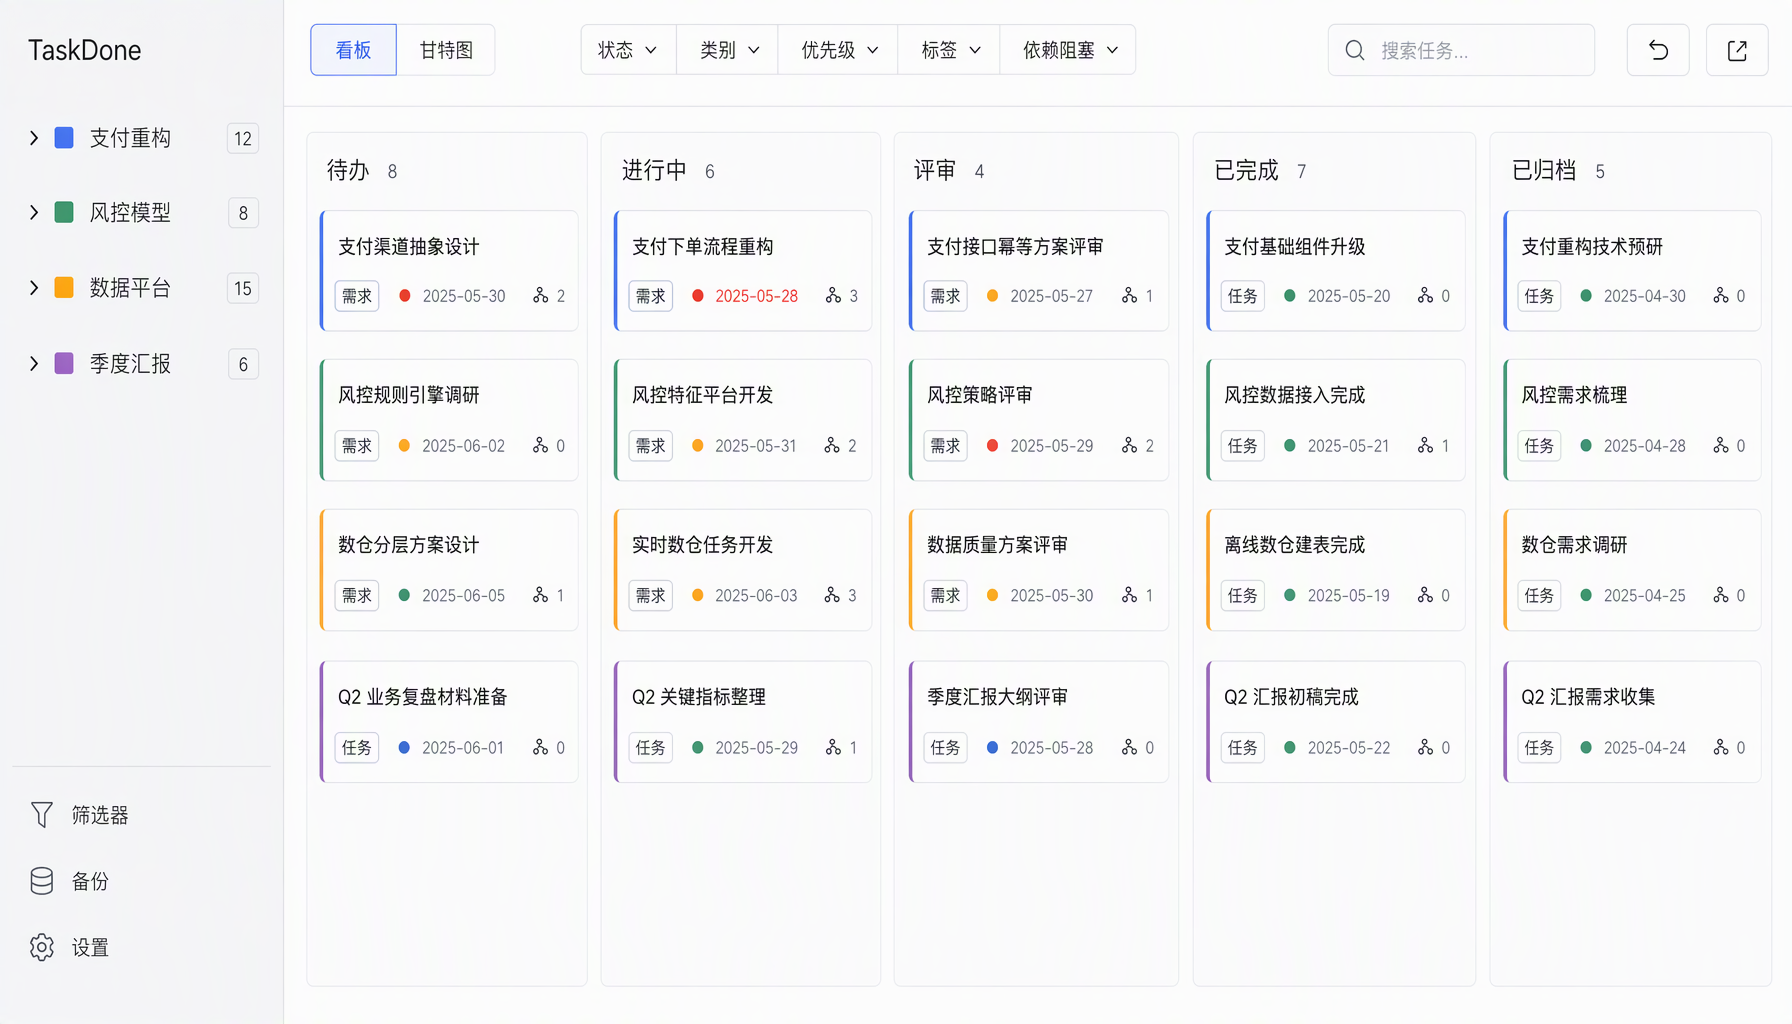
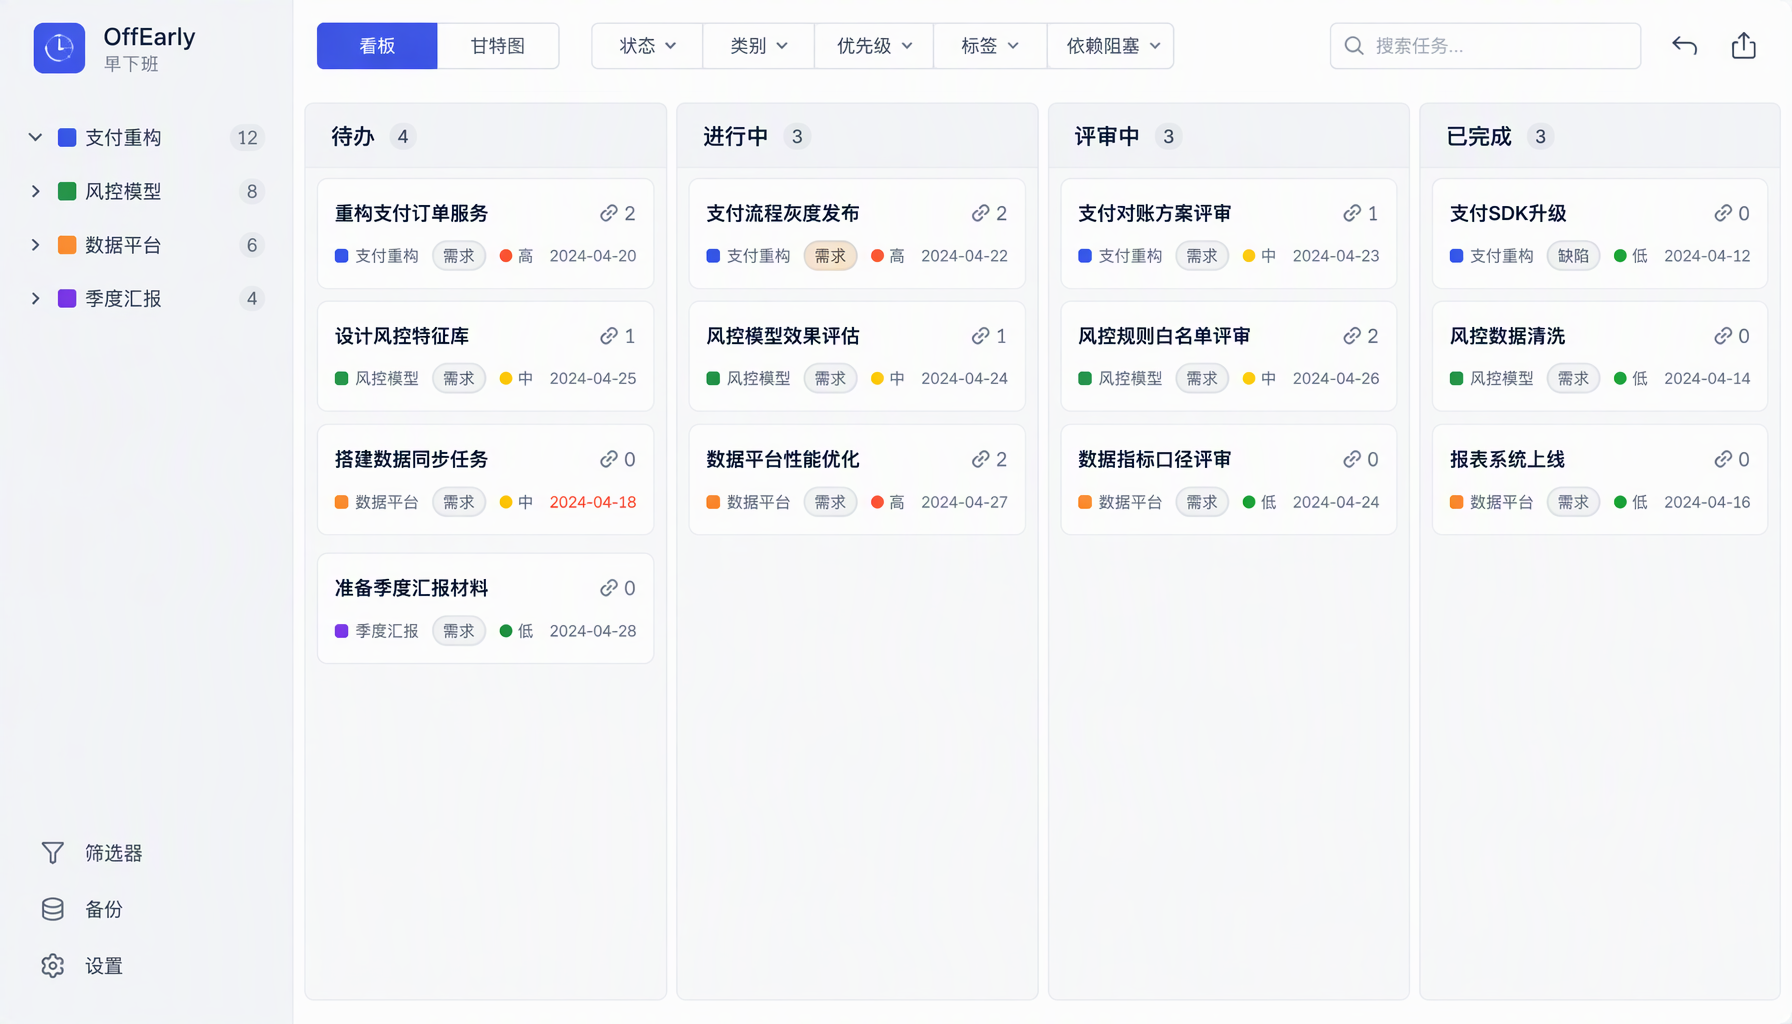
brand: rename TaskDone to OffEarly (早下班), v1.1
- Add brand assets: logo-mark.svg, logo-mark-mono.svg, logo-lockup.svg, app-icon-1024.png
- Mark concept: 5-o'clock clock with exit arrow through circle gap
- Regenerate mockups 01/02 with OffEarly wordmark, fixed 4 columns, color-dot cards
- Doc: product name, OffEarly.html deliverable, brand asset registry, version v1.1

diff --git a/docs/superpowers/specs/2026-10-15-taskdone-architecture-design.md b/docs/superpowers/specs/2026-10-15-taskdone-architecture-design.md
@@ -1,8 +1,9 @@
-# TaskDone 架构设计
+# OffEarly（早下班）架构设计
 
 | 项 | 值 |
 |---|---|
-| 文档版本 | v1.0 |
+| 产品名 | OffEarly（中文：早下班） |
+| 文档版本 | v1.1 |
 | 日期 | 2026-10-15 |
 | 状态 | 待评审 |
 | 交付边界 | 仅架构设计文档（不含实现） |
@@ -12,7 +13,7 @@
 
 ## 0. 摘要与硬约束
 
-TaskDone 是一个**个人本地**的任务管理与项目进度追踪工具，集成 Jira 的依赖与筛选、Planner 的轻量看板、Obsidian 的本地文件与 Markdown、MS Project 的甘特图与排期引擎的核心优势。面向企业内网环境：**不联网、不登录、不装包**。
+OffEarly（早下班）是一个**个人本地**的任务管理与项目进度追踪工具，集成 Jira 的依赖与筛选、Planner 的轻量看板、Obsidian 的本地文件与 Markdown、MS Project 的甘特图与排期引擎的核心优势。面向企业内网环境：**不联网、不登录、不装包**。
 
 | # | 硬约束 | 来源 |
 |---|---|---|
@@ -337,6 +338,22 @@ File → AssetStore.put(file) → 写 assets/<nanoid>.<ext>
 - 信息密度：卡片 6 项、详情抽屉 5 分区、看板列头 3 项，均为上限
 - 效果图见 `docs/design/`：`01-board-layout.png`（看板整体）、`02-gantt-detail.png`（甘特图 + 详情抽屉）、`03-card-variants-compare.png`（卡片四方案对比）、`04-card-closeup-recommended.png`（C 方案特写含 hover/逾期态）
 
+### 品牌与图标资产
+
+- 产品名 **OffEarly**（中文：早下班）；tagline「把事做完，早点下班。/ Finish well. Leave early.」
+- 品牌标记概念：5 点时钟 + 从表盘右侧缺口穿出的离场箭头（"到点就走"），1.8px 描边、深靛 `#4F46E5`，与 UI 线性图标同一语言
+
+| 资产 | 用途 |
+|---|---|
+| `brand/logo-mark.svg` | 彩色线性标，单一事实源；任意尺寸由此缩放 |
+| `brand/logo-mark-mono.svg` | 单色标（`currentColor`）；favicon、打印、单色上下文 |
+| `brand/logo-lockup.svg` | 标 + OffEarly 字标 + 早下班；侧栏 wordmark、文档页眉 |
+| `brand/app-icon-1024.png` | 应用图标：桌面快捷方式、PWA manifest、系统"打开方式"图标 |
+
+- favicon 以 `logo-mark-mono.svg` 的 data URI 内联进单 HTML，保证零外部请求
+- 192/512/48/32/16 等光栅尺寸在构建期由 SVG / 1024 源导出，**不入库**
+- 可执行物命名 `OffEarly.html`；数据文件夹与 `vault.json` 命名不变
+
 ---
 
 ## 8. 持久化、自动保存、备份与冲突
@@ -402,7 +419,7 @@ save():
 - 无 sourcemap 进产物（外挂保存）
 - 产物目标 < 1.6 MB；CI 校验产物中不含任何 `http(s)://` 资源引用（保证零网络依赖）
 - `APP_VERSION` 内嵌于 HTML（git tag）；`schemaVersion` 独立演进，向后兼容 N-1
-- 交付物：`TaskDone.html`（唯一可执行物）+ `docs/`（设计文档与一页纸用户手册）+ 可选 `example.vault/` 示例库（含示例 topic/任务/里程碑/图片）
+- 交付物：`OffEarly.html`（唯一可执行物）+ `docs/`（设计文档与一页纸用户手册）+ 可选 `example.vault/` 示例库（含示例 topic/任务/里程碑/图片）
 
 ---
 
@@ -475,4 +492,4 @@ i18n 实现：自写约 60 行 `t()` + 插值；`type MsgKey = NestedKeyOf<typeo
 | `docs/design/03-card-variants-compare.png` | 卡片话题标识四方案同屏对比（A 左色条 / B 顶线 / C 色点+话题名 / D 柔和底色） |
 | `docs/design/04-card-closeup-recommended.png` | C 方案卡片特写，含 hover 态与逾期态 |
 
-> 注：`01-board-layout.png` 生成于状态收敛决策之前，图中为五列；最终实现以第 6.1 节的固定四列（To Do / In Progress / In Review / Done）为准，归档不作为列。
+> 注：`01-board-layout.png` 与 `02-gantt-detail.png` 已按 OffEarly 品牌、固定四列与 C 方案卡片重生成；`03` / `04` 不含字标，不受更名影响。效果图中的文案与像素细节以第 6、7 节文字规范为准。
